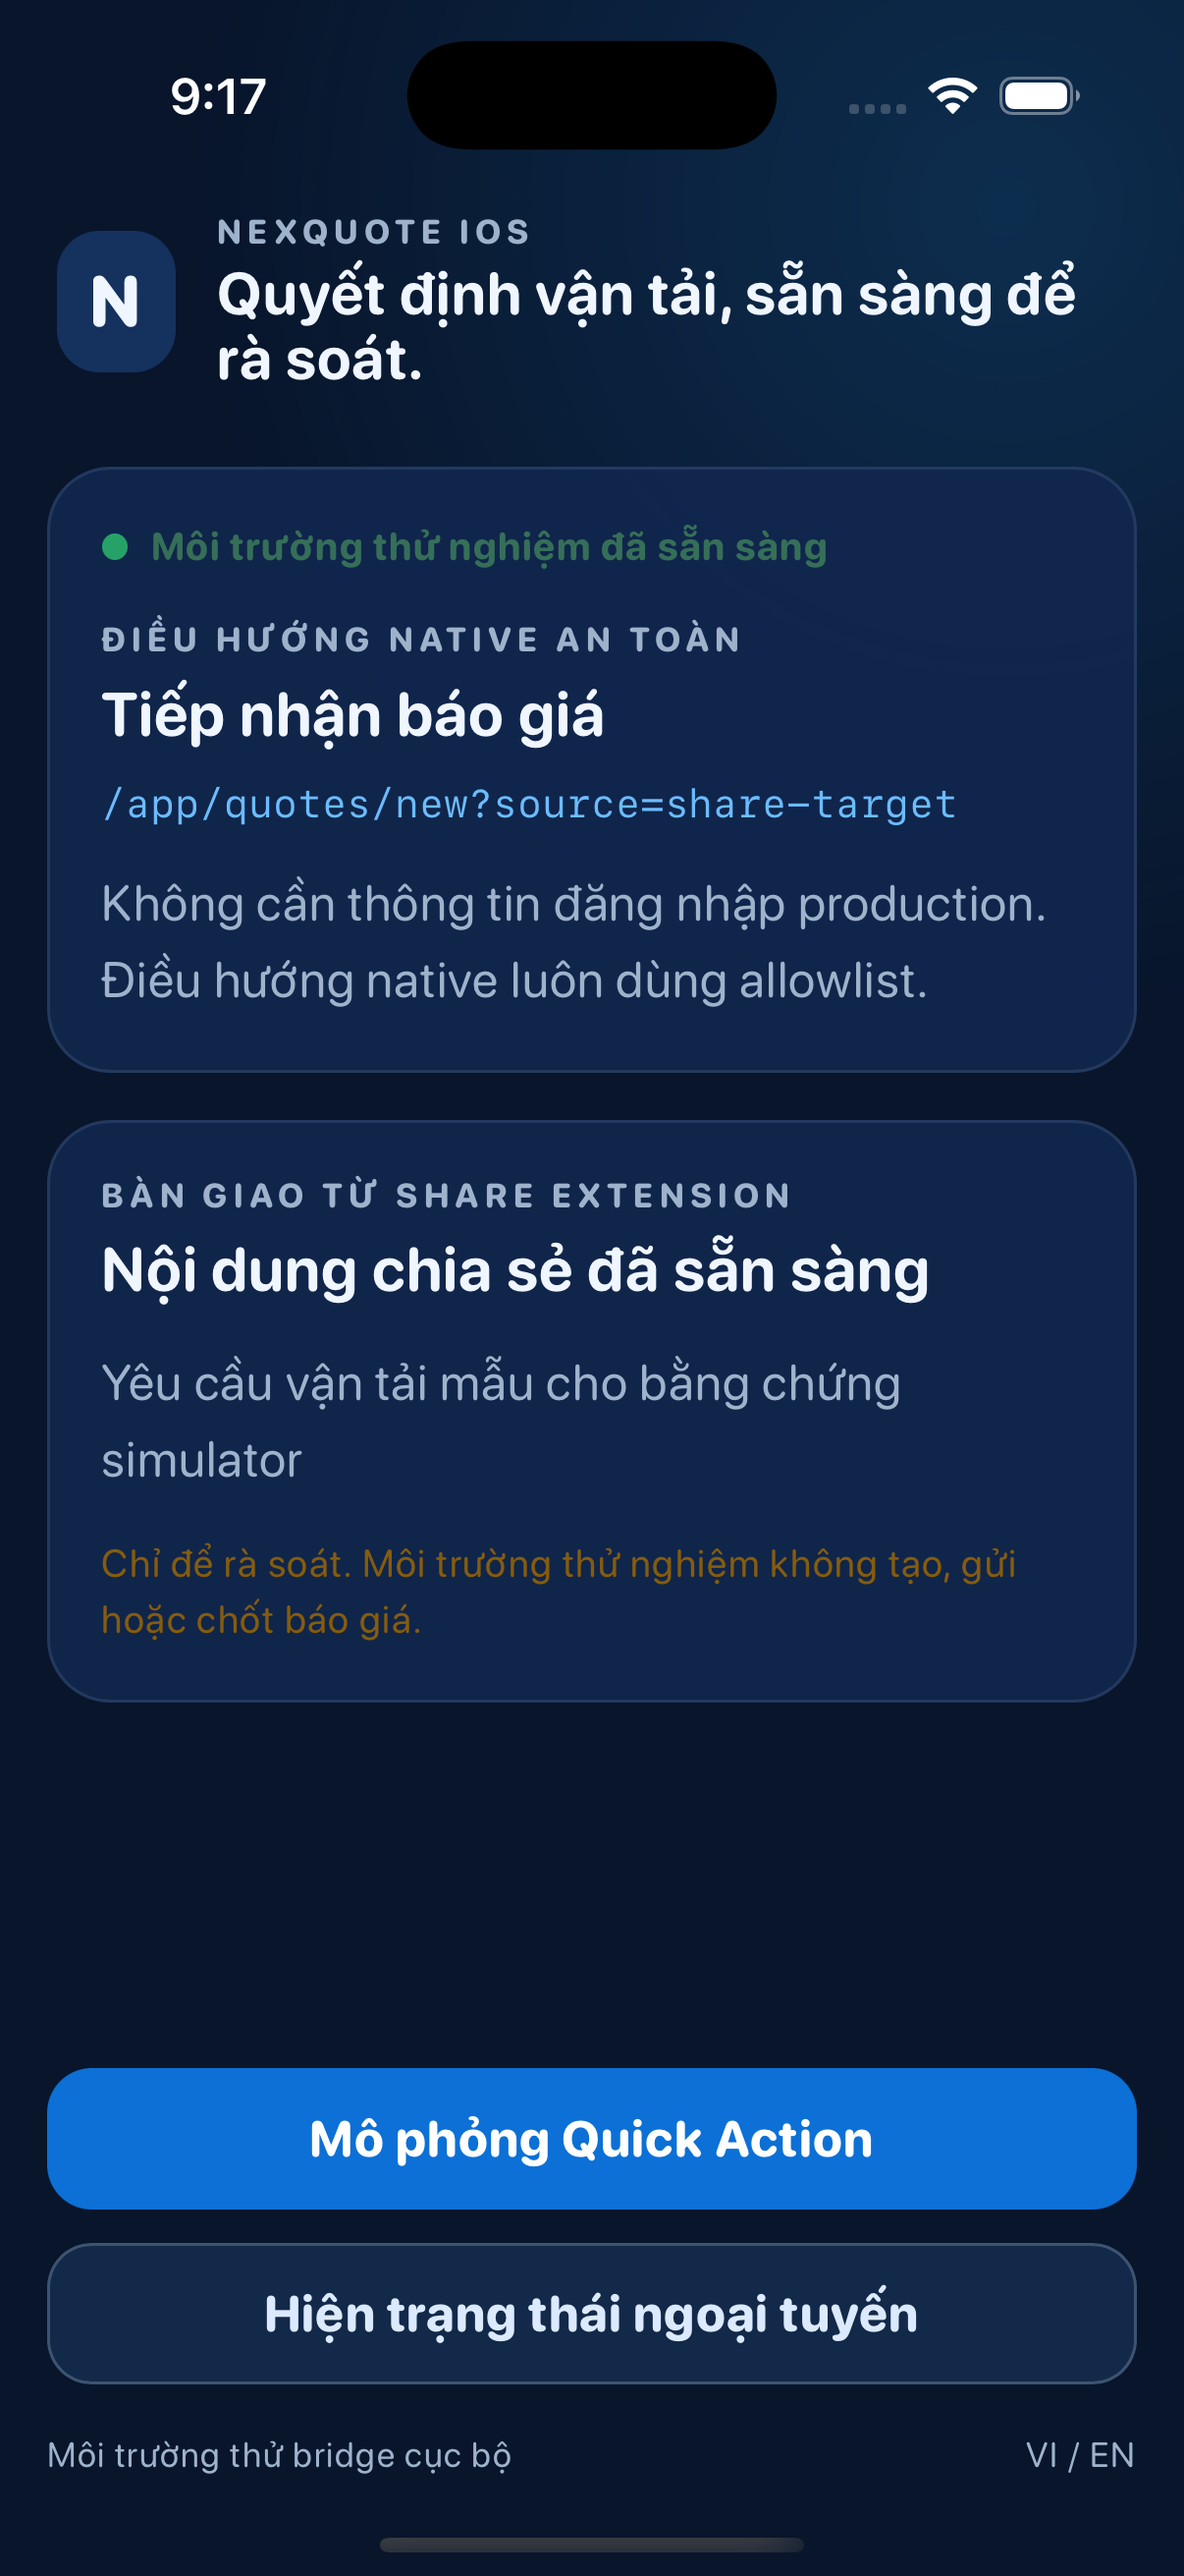
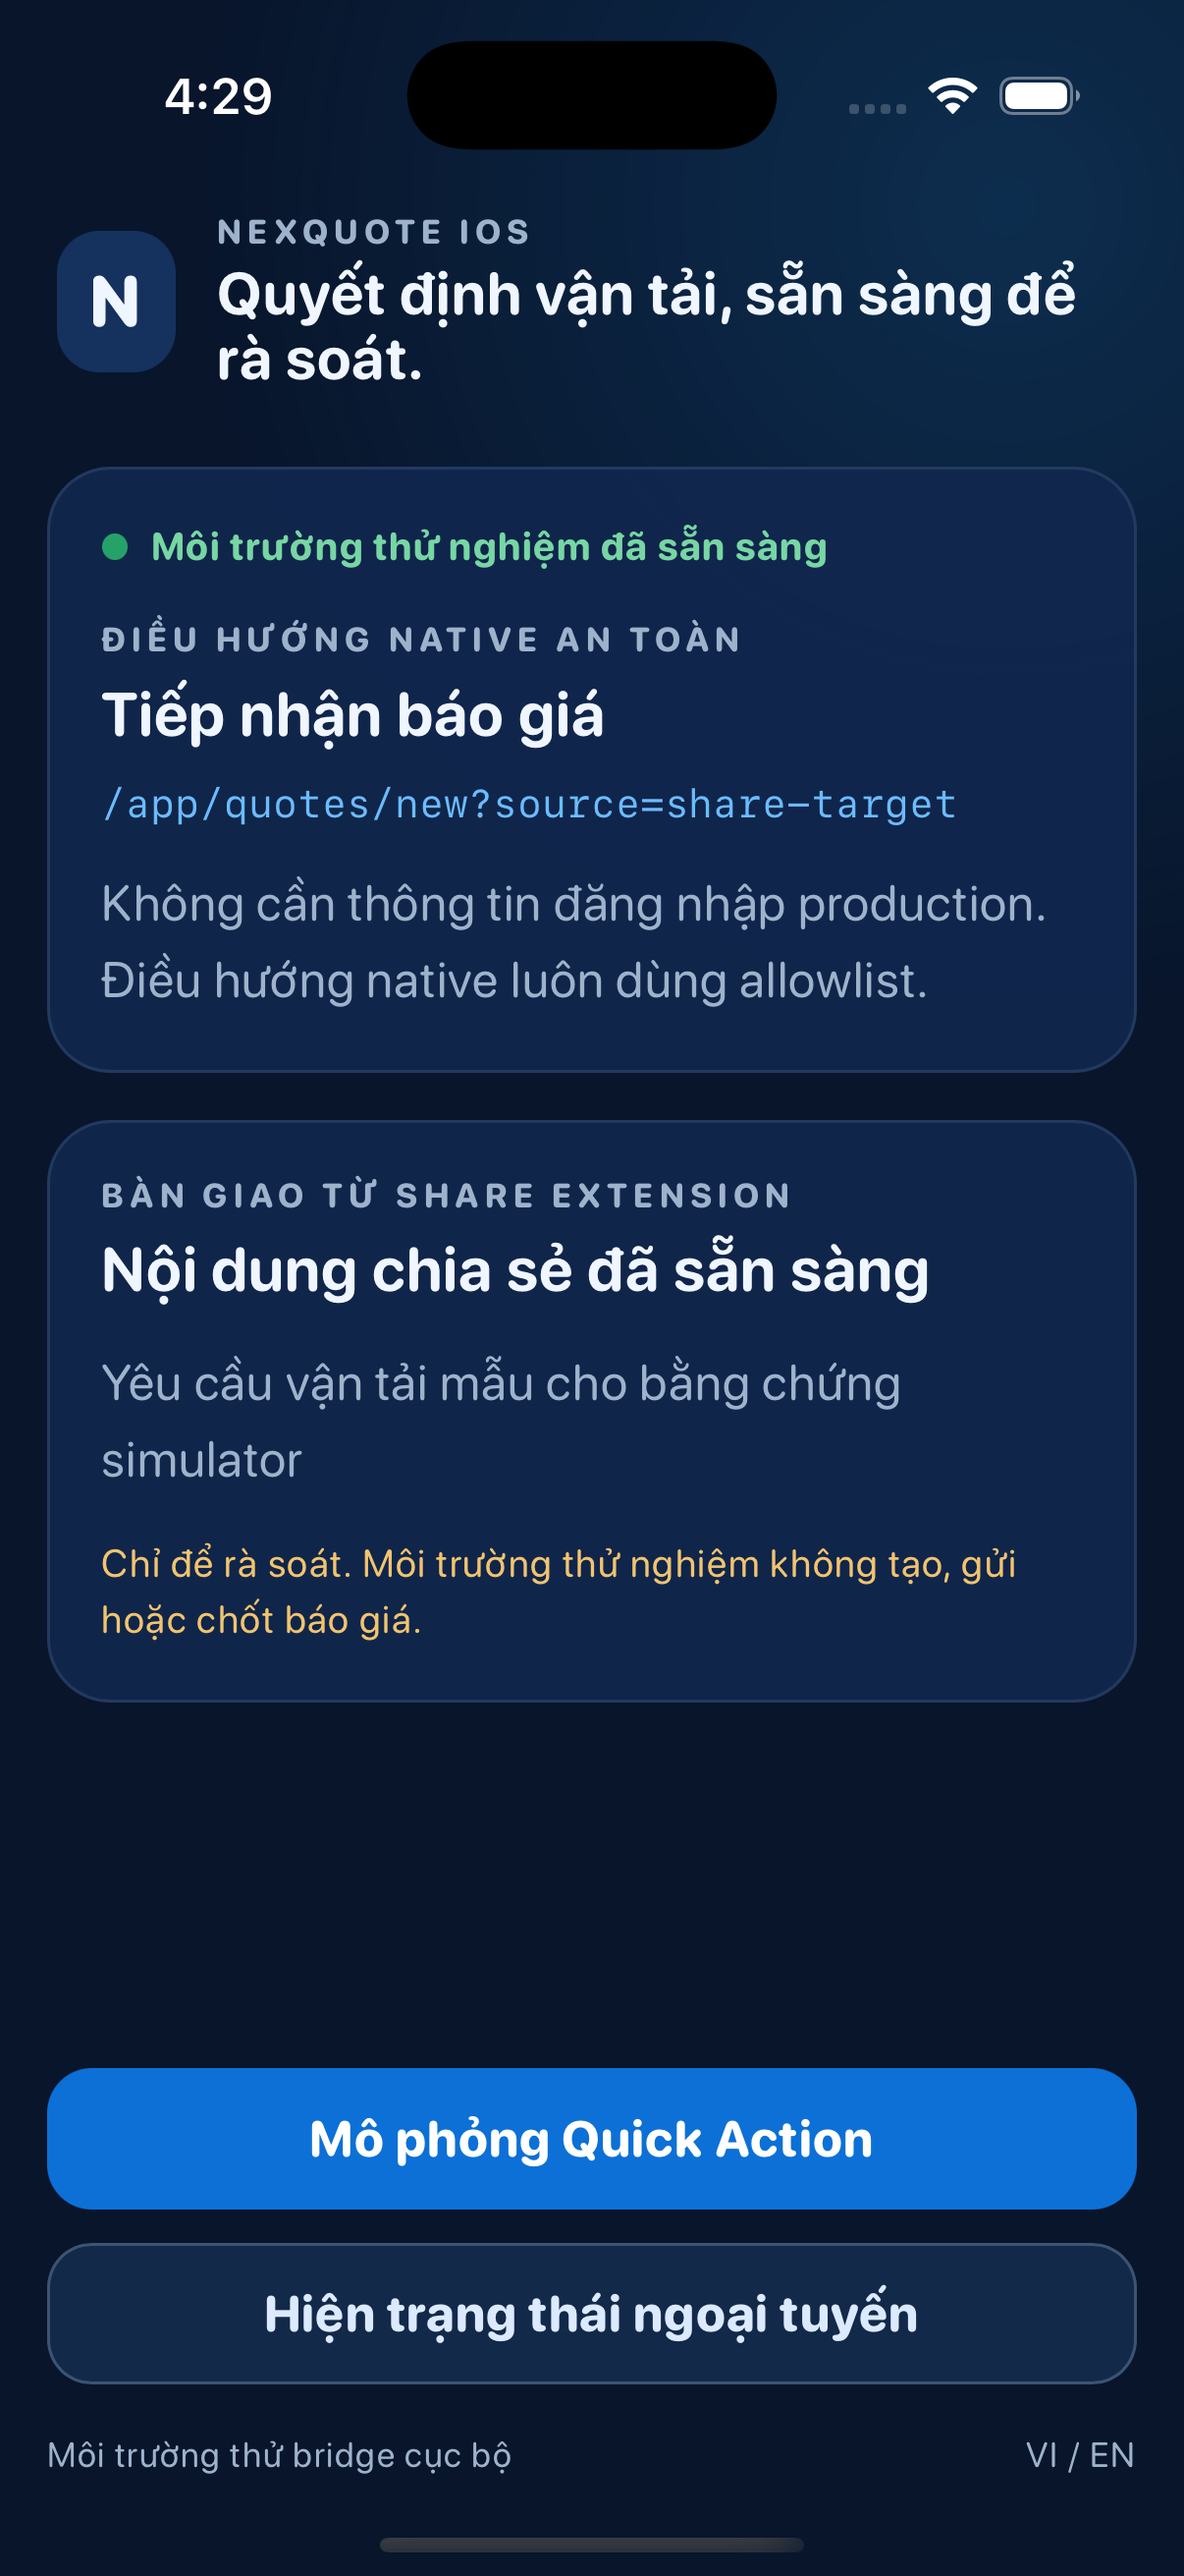
fix: restore dark-mode text contrast (#5)
* fix: restore dark-mode text contrast

* test: tolerate compact simulator startup

* docs: refresh dark simulator proof

---------

diff --git a/App/public/styles.css b/App/public/styles.css
@@ -85,8 +85,11 @@ body.offline .dot { background: #d68a17; }
   body { background: radial-gradient(circle at 85% 8%, rgba(41, 163, 255, 0.17), transparent 32%), #08152b; }
   .status-card, .share-card { border-color: rgba(171, 204, 241, 0.12); background: rgba(16, 38, 77, 0.92); box-shadow: none; }
   .eyebrow, .note, footer { color: #9eb3cb; }
+  .status-row { color: #77d6a3; }
+  .privacy-note { color: #f1c46f; }
   .route { color: #6bbcff; }
   button.secondary { border-color: #3c5471; background: #132949; color: #dceaff; }
+  body.offline .status-row { color: #f1b85a; }
 }
 
 @media (prefers-reduced-motion: no-preference) {

diff --git a/AppUITests/AppHarnessUITests.swift b/AppUITests/AppHarnessUITests.swift
@@ -13,7 +13,7 @@ final class AppHarnessUITests: XCTestCase {
         ]
         app.launch()
 
-        XCTAssertTrue(app.staticTexts["Rate import"].waitForExistence(timeout: 10))
+        XCTAssertTrue(app.staticTexts["Rate import"].waitForExistence(timeout: 20))
     }
 
     func testSanitizedShareHandoff() {

diff --git a/scripts/validate_project.py b/scripts/validate_project.py
@@ -9,6 +9,20 @@ from pathlib import Path
 ROOT = Path(__file__).resolve().parents[1]
 
 
+def relative_luminance(hex_color: str) -> float:
+    channels = [int(hex_color[index:index + 2], 16) / 255 for index in (1, 3, 5)]
+    linear = [value / 12.92 if value <= 0.04045 else ((value + 0.055) / 1.055) ** 2.4 for value in channels]
+    return 0.2126 * linear[0] + 0.7152 * linear[1] + 0.0722 * linear[2]
+
+
+def contrast_ratio(foreground: str, background: str) -> float:
+    lighter, darker = sorted(
+        (relative_luminance(foreground), relative_luminance(background)),
+        reverse=True,
+    )
+    return (lighter + 0.05) / (darker + 0.05)
+
+
 def read(relative: str) -> str:
     return (ROOT / relative).read_text(encoding="utf-8")
 
@@ -104,11 +118,18 @@ def main() -> int:
 
     html = read("App/public/index.html")
     bridge = read("App/public/bridge.js")
+    styles = read("App/public/styles.css")
     if "connect-src 'none'" not in html or "Content-Security-Policy" not in html:
         failures.append("local harness CSP missing or too broad")
     for token in ["nq:native-route", "nq:native-share", "type: 'ready'", "type: 'ack'"]:
         if token not in bridge:
             failures.append(f"local harness bridge missing {token}")
+
+    for foreground in ["#77d6a3", "#f1c46f", "#f1b85a"]:
+        if foreground not in styles:
+            failures.append(f"dark harness contrast color missing: {foreground}")
+        elif contrast_ratio(foreground, "#10264d") < 4.5:
+            failures.append(f"dark harness contrast below WCAG AA: {foreground}")
 
     keys = {
         "quick.create_quote", "quick.import_rates", "quick.decision_inbox",
